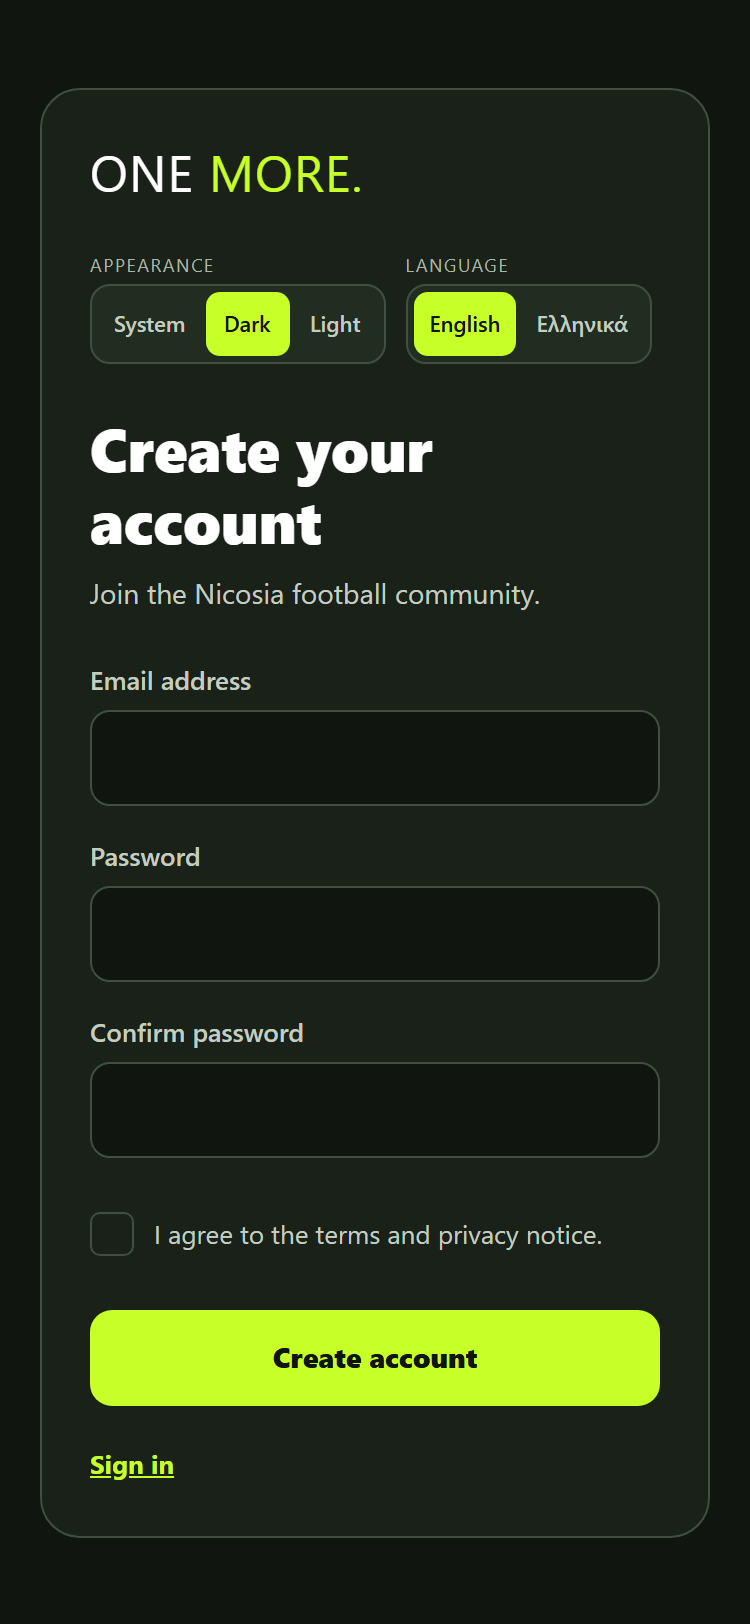
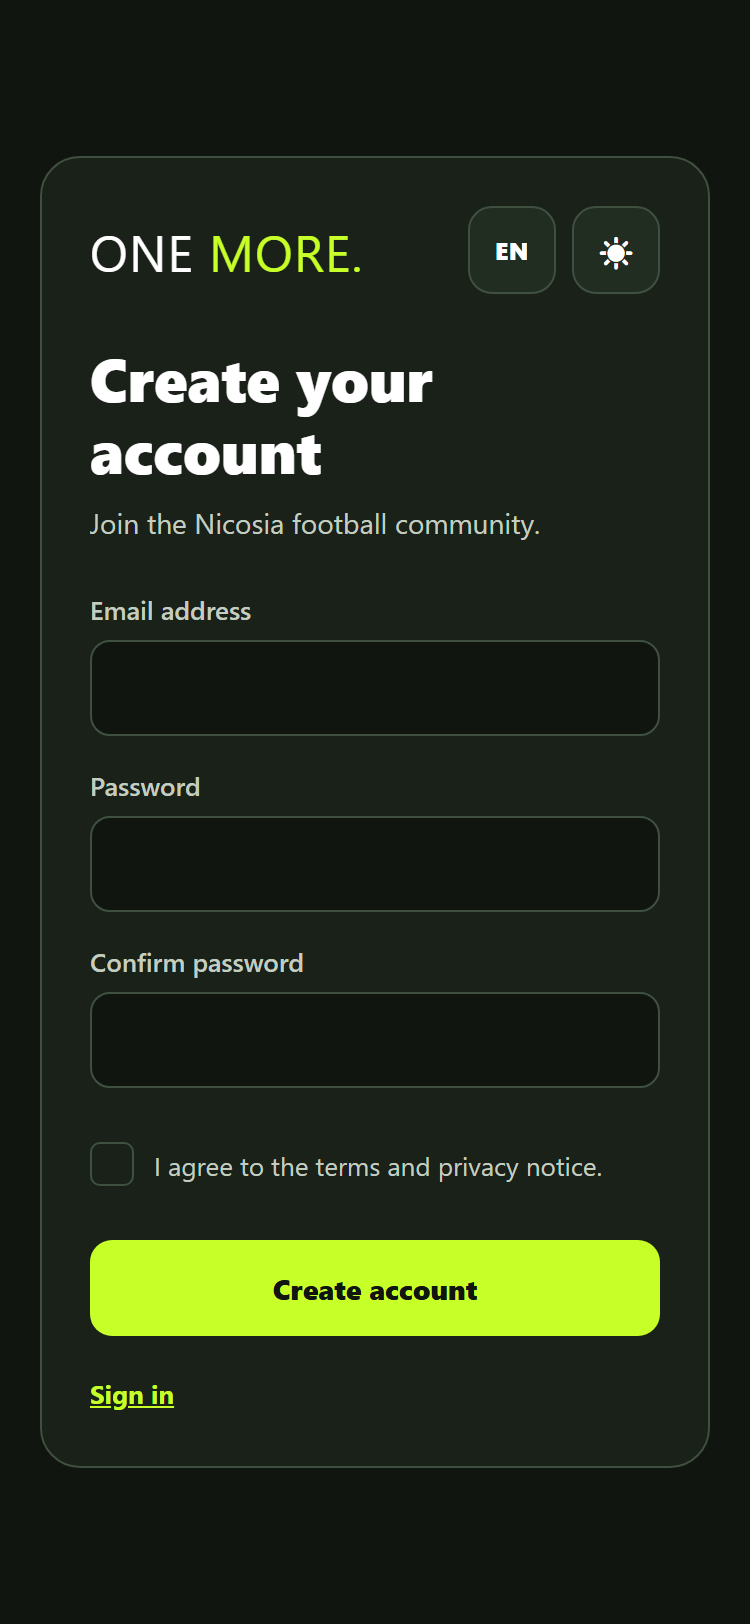
Compact auth language and theme controls

diff --git a/src/components/auth/AuthPage.tsx b/src/components/auth/AuthPage.tsx
@@ -3,7 +3,7 @@ import { Link, type Href } from 'expo-router';
 import { Pressable, ScrollView, StyleSheet, Text, TextInput, View } from 'react-native';
 
 import { BrandMark } from '@/components/brand-mark';
-import { PreferenceSwitchers } from '@/components/preferences-switchers';
+import { translations } from '@/i18n';
 import { useAppPreferences } from '@/preferences/AppPreferencesProvider';
 
 export function AuthPage({
@@ -11,7 +11,9 @@ export function AuthPage({
   description,
   children,
 }: PropsWithChildren<{ title: string; description: string }>) {
-  const { colors } = useAppPreferences();
+  const { colors, locale, setLocale, theme, setThemePreference, preferencesReady } =
+    useAppPreferences();
+  const copy = translations[locale];
   return (
     <ScrollView
       style={[styles.screen, { backgroundColor: colors.background }]}
@@ -19,8 +21,45 @@ export function AuthPage({
       keyboardShouldPersistTaps="handled"
     >
       <View style={[styles.card, { backgroundColor: colors.surface, borderColor: colors.border }]}>
-        <BrandMark />
-        <PreferenceSwitchers />
+        <View style={styles.topBar}>
+          <BrandMark />
+          <View style={styles.preferenceControls}>
+            <Pressable
+              accessibilityRole="button"
+              accessibilityLabel={
+                locale === 'en' ? copy.authSwitchToGreek : copy.authSwitchToEnglish
+              }
+              accessibilityState={{ disabled: !preferencesReady }}
+              disabled={!preferencesReady}
+              onPress={() => setLocale(locale === 'en' ? 'el' : 'en')}
+              style={({ pressed }) => [
+                styles.compactControl,
+                { backgroundColor: colors.surfaceRaised, borderColor: colors.border },
+                pressed && styles.pressedControl,
+              ]}
+            >
+              <Text style={[styles.languageCode, { color: colors.textPrimary }]}>
+                {locale === 'en' ? 'EN' : 'EL'}
+              </Text>
+            </Pressable>
+            <Pressable
+              accessibilityRole="button"
+              accessibilityLabel={theme === 'dark' ? copy.authSwitchToLight : copy.authSwitchToDark}
+              accessibilityState={{ disabled: !preferencesReady }}
+              disabled={!preferencesReady}
+              onPress={() => setThemePreference(theme === 'dark' ? 'light' : 'dark')}
+              style={({ pressed }) => [
+                styles.compactControl,
+                { backgroundColor: colors.surfaceRaised, borderColor: colors.border },
+                pressed && styles.pressedControl,
+              ]}
+            >
+              <Text style={[styles.themeIcon, { color: colors.textPrimary }]}>
+                {theme === 'dark' ? '☀' : '☾'}
+              </Text>
+            </Pressable>
+          </View>
+        </View>
         <View style={styles.heading}>
           <Text accessibilityRole="header" style={[styles.title, { color: colors.textPrimary }]}>
             {title}
@@ -178,6 +217,25 @@ const styles = StyleSheet.create({
   screen: { flex: 1 },
   content: { flexGrow: 1, alignItems: 'center', justifyContent: 'center', padding: 20 },
   card: { width: '100%', maxWidth: 480, borderWidth: 1, borderRadius: 20, padding: 24, gap: 24 },
+  topBar: {
+    minHeight: 44,
+    flexDirection: 'row',
+    alignItems: 'center',
+    justifyContent: 'space-between',
+    gap: 12,
+  },
+  preferenceControls: { flexDirection: 'row', alignItems: 'center', gap: 8 },
+  compactControl: {
+    width: 44,
+    height: 44,
+    borderRadius: 12,
+    borderWidth: 1,
+    alignItems: 'center',
+    justifyContent: 'center',
+  },
+  languageCode: { fontSize: 12, fontWeight: '800', letterSpacing: 0.3 },
+  themeIcon: { fontSize: 21, lineHeight: 26 },
+  pressedControl: { opacity: 0.7 },
   heading: { gap: 8 },
   title: { fontSize: 30, lineHeight: 36, fontWeight: '800' },
   description: { fontSize: 14, lineHeight: 21 },

diff --git a/e2e/phase-03-auth.spec.ts b/e2e/phase-03-auth.spec.ts
@@ -11,9 +11,12 @@ test('signup shows validation and localized account creation form', async ({ pag
   await page.getByRole('button', { name: 'Dismiss notification' }).click();
   await expect(page.getByLabel('Email address')).toBeVisible();
   await page.goto('/sign-in');
-  await page.getByRole('button', { name: 'Language: Ελληνικά' }).click();
+  const languageToggle = page.getByRole('button', { name: 'Switch language to Greek' });
+  await expect(languageToggle).toContainText('EN');
+  await languageToggle.click();
   await expect(page.getByRole('status')).toContainText('Η προτίμηση γλώσσας αποθηκεύτηκε.');
   await expect(page.getByRole('heading', { name: 'Καλώς ήρθες ξανά' })).toBeVisible();
+  await expect(page.getByRole('button', { name: 'Αλλαγή γλώσσας σε English' })).toContainText('EL');
 });
 
 test('wrong password is announced in a dismissible error toast', async ({ page }) => {
@@ -69,7 +72,7 @@ test('a failed preference save shows a dismissible error toast', async ({ page }
     };
   });
   await page.goto('/sign-up');
-  await page.getByRole('button', { name: 'Appearance: Dark' }).click();
+  await page.getByRole('button', { name: /^Switch theme to (dark|light)$/ }).click();
   const errorToast = page.getByRole('alert');
   await expect(errorToast).toContainText('Your preference could not be saved. Please try again.');
   await errorToast.getByRole('button', { name: 'Dismiss notification' }).click();
@@ -90,10 +93,15 @@ test('auth screens fit mobile and desktop in dark and light themes', async ({ pa
   await page.setViewportSize({ width, height });
   for (const theme of ['Dark', 'Light'] as const) {
     await page.goto('/sign-up');
-    await page.getByRole('button', { name: `Appearance: ${theme}` }).click();
-    const toast = page.getByRole('status').filter({ hasText: 'preference saved' });
-    await expect(toast.last()).toBeVisible();
-    await toast.last().getByRole('button', { name: 'Dismiss notification' }).click();
+    const themeToggle = page.getByRole('button', {
+      name: `Switch theme to ${theme.toLowerCase()}`,
+    });
+    if (await themeToggle.isVisible()) {
+      await themeToggle.click();
+      const toast = page.getByRole('status').filter({ hasText: 'preference saved' });
+      await expect(toast.last()).toBeVisible();
+      await toast.last().getByRole('button', { name: 'Dismiss notification' }).click();
+    }
     await expect(page.getByRole('heading', { name: 'Create your account' })).toBeVisible();
     expect(await page.evaluate(() => document.documentElement.scrollWidth)).toBeLessThanOrEqual(
       width,

diff --git a/src/i18n/el.ts b/src/i18n/el.ts
@@ -154,4 +154,8 @@ export const el = {
   preferencesLanguageSaved: 'Η προτίμηση γλώσσας αποθηκεύτηκε.',
   toastDismiss: 'Κλείσιμο ειδοποίησης',
   authEmailUnconfirmed: 'Επαλήθευσε το email σου πριν συνδεθείς.',
+  authSwitchToEnglish: 'Αλλαγή γλώσσας σε English',
+  authSwitchToGreek: 'Αλλαγή γλώσσας σε Ελληνικά',
+  authSwitchToDark: 'Αλλαγή εμφάνισης σε σκούρα',
+  authSwitchToLight: 'Αλλαγή εμφάνισης σε φωτεινή',
 } as const;

diff --git a/src/i18n/en.ts b/src/i18n/en.ts
@@ -152,4 +152,8 @@ export const en = {
   preferencesLanguageSaved: 'Language preference saved.',
   toastDismiss: 'Dismiss notification',
   authEmailUnconfirmed: 'Verify your email before signing in.',
+  authSwitchToEnglish: 'Switch language to English',
+  authSwitchToGreek: 'Switch language to Greek',
+  authSwitchToDark: 'Switch theme to dark',
+  authSwitchToLight: 'Switch theme to light',
 } as const;

diff --git a/docs/IMPLEMENTATION_LOG.md b/docs/IMPLEMENTATION_LOG.md
@@ -62,7 +62,7 @@
 ### 2026-11-12 — Phase 03: Supabase environment, auth and verified OTP
 
 - **Status:** PARTIAL
-- **Summary:** Connected the app to the `ONE MORE` Supabase project with the public publishable key from ignored `.env.local`; added typed Supabase client setup, native SecureStore session persistence, auth session context, email/password signup and login, signup OTP verification/resend, password reset, password recovery, signout, localized auth pages, and signed-out guards for create, profile, notifications and private chat. Added `profiles` on auth-user creation with RLS limited to the authenticated user's own row. Added a global, dismissible, auto-expiring accessible toast system for auth errors/success and persisted theme/language saves. Added EN/EL copy, unit/E2E coverage, local pgTAP coverage, and generated DB types.
+- **Summary:** Connected the app to the `ONE MORE` Supabase project with the public publishable key from ignored `.env.local`; added typed Supabase client setup, native SecureStore session persistence, auth session context, email/password signup and login, signup OTP verification/resend, password reset, password recovery, signout, localized auth pages, and signed-out guards for create, profile, notifications and private chat. Added `profiles` on auth-user creation with RLS limited to the authenticated user's own row. Added a global, dismissible, auto-expiring accessible toast system for auth errors/success and persisted theme/language saves. Auth pages now use a compact EN/EL language button and an accessible theme icon toggle in a single header row. Added EN/EL copy, unit/E2E coverage, local pgTAP coverage, and generated DB types.
 - **Dependencies:** Added `@supabase/supabase-js` 2.119.0 and Expo SDK-compatible `expo-secure-store` ~58.0.3. `EXPO_PUBLIC_SUPABASE_URL` and `EXPO_PUBLIC_SUPABASE_PUBLISHABLE_KEY` are configured locally; only the publishable key is used in the client. No service-role or secret key was added.
 - **Database:** Applied migration `20261112111944_create_profiles_for_auth_users` to the hosted project. Confirmed `public.profiles` exists with RLS enabled, `anon` has no SELECT grant, `authenticated` has SELECT, and the single SELECT policy requires `auth.uid() = id`. Live SQL checks inserted two disposable auth users inside a rolled-back transaction; the trigger created their profiles, the authenticated role saw only its own profile (1 row / 0 other rows), and an `anon` SELECT was rejected with SQLSTATE `42501`. Inspected the trigger function: SECURITY DEFINER with empty `search_path`. Hosted security, performance and health advisors returned no lints. The local pgTAP test file covers the same access boundary but local execution was blocked because Docker is unavailable.
 - **Commands:**
@@ -74,9 +74,10 @@
   - `npm run format:check` — PASS, exit 0
   - `npx expo-doctor` — PASS, 20/20 checks, exit 0
   - `npm run build:web` — PASS, Expo Web export created `dist`, exit 0
+  - Auth preference UI follow-up: `npm run lint`, `npm run typecheck`, `npm run test:run` — PASS; `npm run test:e2e -- --workers=1` — PASS, 19 passed / 1 skipped; `npm run format:check` — PASS; `npx expo-doctor` — PASS, 20/20; `npm run build:web` — PASS.
   - `npx --yes supabase@2 test db --local` — BLOCKED, exit 1; local Postgres at `127.0.0.1:54322` refused the connection because Docker/Supabase local services are unavailable
   - `npm run dev:web -- --port 8090 --clear --no-dev --minify` — PASS, started by Playwright; pages loaded in Chromium at `http://127.0.0.1:8090`
-- **Browser verification:** Chromium checked `/sign-up`, `/sign-in`, `/create`, `/profile`, `/notifications` and `/chat/demo` at 375×812 and 1440×900; signup screens were checked in dark and light themes, and EN/EL switching and guard redirects were verified. Wrong-password and failed-preference-save toasts, screen-reader alert role and dismiss button were checked at desktop and mobile widths. Screenshots: `docs/screenshots/phase-03/`.
+- **Browser verification:** Chromium checked `/sign-up`, `/sign-in`, `/create`, `/profile`, `/notifications` and `/chat/demo` at 375×812 and 1440×900; signup screens were checked in dark and light themes, and EN/EL switching and guard redirects were verified. Follow-up checked the compact EN/EL label and theme-icon toggle on 375×812 and 1440×900 in dark and light themes, with no horizontal overflow. Wrong-password and failed-preference-save toasts, screen-reader alert role and dismiss button were checked at desktop and mobile widths. Updated auth screenshots: `docs/screenshots/phase-03/signup-{dark,light}-{375,1440}.png` and `docs/screenshots/phase-03/toast-invalid-credentials-{desktop-chromium,mobile-chromium}.png`.
 - **Security verification:** Client uses only the Supabase publishable key. Live SQL verified `anon` denial and authenticated own-row isolation; catalog checks confirmed grants, RLS policy and secure trigger settings. The pgTAP suite was not executable without local Docker. No organizer data or organizer role exists in this foundation phase.
 - **Issues / deviations:** The hosted project is on the Free plan and was created after Supabase's 2026-06-03 restriction on customizing auth email templates while using default SMTP. Real signup OTP and password-reset delivery therefore remain unverified until a custom SMTP provider is configured (or the project moves to a plan that permits template customization). The local OTP HTML templates are ready and include `{{ .Token }}`; they are not proof of hosted email delivery. Supabase documents this restriction in its [email template customization change](https://supabase.com/changelog/46599-changes-to-email-template-customisation-on-free-tier). Docker was not available for local pgTAP execution. A full 44-screenshot regression matrix exceeded the Metro Node heap; the phase check was narrowed to the four guarded paths, while Phase 02's prior route matrix remains recorded above. Existing persisted app writes in this phase are the theme and language preferences; later domain save/update screens can call the same `useToast()` API for both success and failure feedback.
 - **Next:** Phase 04 — onboarding and profile/preferences. Not started; awaiting the user's next phase instruction.
